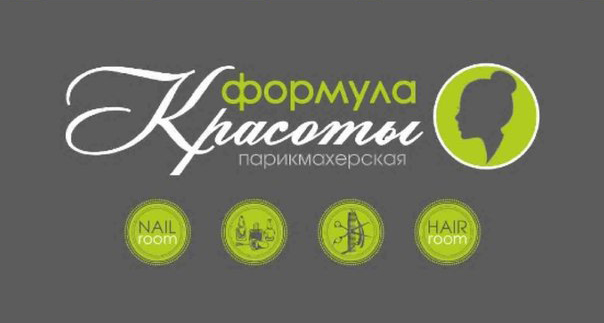
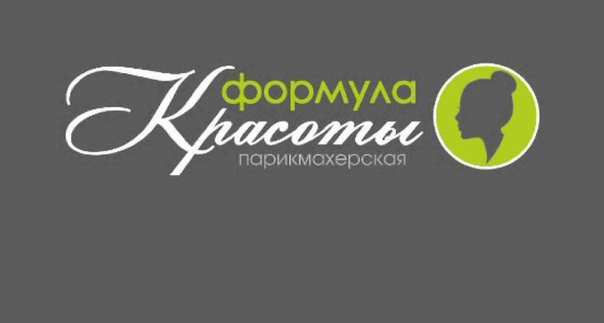
visitCard

diff --git a/dist/css/style.min.css b/dist/css/style.min.css
@@ -4,4 +4,4 @@
  * Copyright 2011-2019 Twitter, Inc.
  * Licensed under MIT (https://github.com/twbs/bootstrap/blob/master/LICENSE)
  * Forked from Normalize.css, licensed MIT (https://github.com/necolas/normalize.css/blob/master/LICENSE.md)
- */*,::after,::before{box-sizing:border-box}html{font-family:sans-serif;line-height:1.15;-webkit-text-size-adjust:100%;-webkit-tap-highlight-color:transparent}article,aside,figcaption,figure,footer,header,hgroup,main,nav,section{display:block}body{margin:0;font-family:-apple-system,BlinkMacSystemFont,"Segoe UI",Roboto,"Helvetica Neue",Arial,"Noto Sans",sans-serif,"Apple Color Emoji","Segoe UI Emoji","Segoe UI Symbol","Noto Color Emoji";font-size:1rem;font-weight:400;line-height:1.5;color:#212529;text-align:left;background-color:#fff}[tabindex="-1"]:focus{outline:0!important}hr{box-sizing:content-box;height:0;overflow:visible}h1,h2,h3,h4,h5,h6{margin-top:0;margin-bottom:.5rem}p{margin-top:0;margin-bottom:1rem}abbr[data-original-title],abbr[title]{text-decoration:underline;-webkit-text-decoration:underline dotted;text-decoration:underline dotted;cursor:help;border-bottom:0;-webkit-text-decoration-skip-ink:none;text-decoration-skip-ink:none}address{margin-bottom:1rem;font-style:normal;line-height:inherit}dl,ol,ul{margin-top:0;margin-bottom:1rem}ol ol,ol ul,ul ol,ul ul{margin-bottom:0}dt{font-weight:700}dd{margin-bottom:.5rem;margin-left:0}blockquote{margin:0 0 1rem}b,strong{font-weight:bolder}small{font-size:80%}sub,sup{position:relative;font-size:75%;line-height:0;vertical-align:baseline}sub{bottom:-.25em}sup{top:-.5em}a{color:#007bff;text-decoration:none;background-color:transparent}a:hover{color:#0056b3;text-decoration:underline}a:not([href]):not([tabindex]){color:inherit;text-decoration:none}a:not([href]):not([tabindex]):focus,a:not([href]):not([tabindex]):hover{color:inherit;text-decoration:none}a:not([href]):not([tabindex]):focus{outline:0}code,kbd,pre,samp{font-family:SFMono-Regular,Menlo,Monaco,Consolas,"Liberation Mono","Courier New",monospace;font-size:1em}pre{margin-top:0;margin-bottom:1rem;overflow:auto}figure{margin:0 0 1rem}img{vertical-align:middle;border-style:none}svg{overflow:hidden;vertical-align:middle}table{border-collapse:collapse}caption{padding-top:.75rem;padding-bottom:.75rem;color:#6c757d;text-align:left;caption-side:bottom}th{text-align:inherit}label{display:inline-block;margin-bottom:.5rem}button{border-radius:0}button:focus{outline:1px dotted;outline:5px auto -webkit-focus-ring-color}button,input,optgroup,select,textarea{margin:0;font-family:inherit;font-size:inherit;line-height:inherit}button,input{overflow:visible}button,select{text-transform:none}select{word-wrap:normal}[type=button],[type=reset],[type=submit],button{-webkit-appearance:button}[type=button]:not(:disabled),[type=reset]:not(:disabled),[type=submit]:not(:disabled),button:not(:disabled){cursor:pointer}[type=button]::-moz-focus-inner,[type=reset]::-moz-focus-inner,[type=submit]::-moz-focus-inner,button::-moz-focus-inner{padding:0;border-style:none}input[type=checkbox],input[type=radio]{box-sizing:border-box;padding:0}input[type=date],input[type=datetime-local],input[type=month],input[type=time]{-webkit-appearance:listbox}textarea{overflow:auto;resize:vertical}fieldset{min-width:0;padding:0;margin:0;border:0}legend{display:block;width:100%;max-width:100%;padding:0;margin-bottom:.5rem;font-size:1.5rem;line-height:inherit;color:inherit;white-space:normal}progress{vertical-align:baseline}[type=number]::-webkit-inner-spin-button,[type=number]::-webkit-outer-spin-button{height:auto}[type=search]{outline-offset:-2px;-webkit-appearance:none}[type=search]::-webkit-search-decoration{-webkit-appearance:none}::-webkit-file-upload-button{font:inherit;-webkit-appearance:button}output{display:inline-block}summary{display:list-item;cursor:pointer}template{display:none}[hidden]{display:none!important}@font-face{font-family:'SF UI Display';src:url(../fonts/SFUIDisplay-Thin.eot);src:local("SF UI Display Thin"),local("SFUIDisplay-Thin"),url(../fonts/SFUIDisplay-Thin.eot?#iefix) format("embedded-opentype"),url(../fonts/SFUIDisplay-Thin.woff) format("woff"),url(../fonts/SFUIDisplay-Thin.ttf) format("truetype");font-weight:100;font-style:normal}@font-face{font-family:'SF UI Display';src:url(../fonts/SFUIDisplay-Light.eot);src:local("SF UI Display Light"),local("SFUIDisplay-Light"),url(../fonts/SFUIDisplay-Light.eot?#iefix) format("embedded-opentype"),url(../fonts/SFUIDisplay-Light.woff) format("woff"),url(../fonts/SFUIDisplay-Light.ttf) format("truetype");font-weight:300;font-style:normal}@font-face{font-family:'SF UI Display';src:url(../fonts/SFUIDisplay-Regular.eot);src:local("SF UI Display Regular"),local("SFUIDisplay-Regular"),url(../fonts/SFUIDisplay-Regular.eot?#iefix) format("embedded-opentype"),url(../fonts/SFUIDisplay-Regular.woff) format("woff"),url(../fonts/SFUIDisplay-Regular.ttf) format("truetype");font-weight:400;font-style:normal}@font-face{font-family:'SF UI Display';src:url(../fonts/SFUIDisplay-Semibold.eot);src:local("SF UI Display Semibold"),local("SFUIDisplay-Semibold"),url(../fonts/SFUIDisplay-Semibold.eot?#iefix) format("embedded-opentype"),url(../fonts/SFUIDisplay-Semibold.woff) format("woff"),url(../fonts/SFUIDisplay-Semibold.ttf) format("truetype");font-weight:600;font-style:normal}@font-face{font-family:'SF UI Display';src:url(../fonts/SFUIDisplay-Heavy.eot);src:local("SF UI Display Heavy"),local("SFUIDisplay-Heavy"),url(../fonts/SFUIDisplay-Heavy.eot?#iefix) format("embedded-opentype"),url(../fonts/SFUIDisplay-Heavy.woff) format("woff"),url(../fonts/SFUIDisplay-Heavy.ttf) format("truetype");font-weight:900;font-style:normal}*{font-family:'SF UI Display',sans-serif;margin:0;padding:0}.container{width:1440px;margin:0 auto}.main{position:relative}.main .tns-item img{display:block;margin:0 auto}.main .tns-nav{display:flex;justify-content:center;align-items:center;position:absolute;right:50%;transform:translateX(50%);bottom:10px}.main .tns-nav button{width:25px;height:3px;margin-right:5px;border:none;background-color:grey}.main .tns-nav .tns-nav-active{background-color:#000}.first{background:url(../img/main-dark.jpg) no-repeat 100%/cover;min-height:100vh}.navigation{padding-top:15px;position:fixed;width:100%;height:60px;background-color:rgba(0,0,0,.55);z-index:10;color:#fff}.navigation .nav-items{display:flex;justify-content:space-around;align-items:center}
+ */*,::after,::before{box-sizing:border-box}html{font-family:sans-serif;line-height:1.15;-webkit-text-size-adjust:100%;-webkit-tap-highlight-color:transparent}article,aside,figcaption,figure,footer,header,hgroup,main,nav,section{display:block}body{margin:0;font-family:-apple-system,BlinkMacSystemFont,"Segoe UI",Roboto,"Helvetica Neue",Arial,"Noto Sans",sans-serif,"Apple Color Emoji","Segoe UI Emoji","Segoe UI Symbol","Noto Color Emoji";font-size:1rem;font-weight:400;line-height:1.5;color:#212529;text-align:left;background-color:#fff}[tabindex="-1"]:focus{outline:0!important}hr{box-sizing:content-box;height:0;overflow:visible}h1,h2,h3,h4,h5,h6{margin-top:0;margin-bottom:.5rem}p{margin-top:0;margin-bottom:1rem}abbr[data-original-title],abbr[title]{text-decoration:underline;-webkit-text-decoration:underline dotted;text-decoration:underline dotted;cursor:help;border-bottom:0;-webkit-text-decoration-skip-ink:none;text-decoration-skip-ink:none}address{margin-bottom:1rem;font-style:normal;line-height:inherit}dl,ol,ul{margin-top:0;margin-bottom:1rem}ol ol,ol ul,ul ol,ul ul{margin-bottom:0}dt{font-weight:700}dd{margin-bottom:.5rem;margin-left:0}blockquote{margin:0 0 1rem}b,strong{font-weight:bolder}small{font-size:80%}sub,sup{position:relative;font-size:75%;line-height:0;vertical-align:baseline}sub{bottom:-.25em}sup{top:-.5em}a{color:#007bff;text-decoration:none;background-color:transparent}a:hover{color:#0056b3;text-decoration:underline}a:not([href]):not([tabindex]){color:inherit;text-decoration:none}a:not([href]):not([tabindex]):focus,a:not([href]):not([tabindex]):hover{color:inherit;text-decoration:none}a:not([href]):not([tabindex]):focus{outline:0}code,kbd,pre,samp{font-family:SFMono-Regular,Menlo,Monaco,Consolas,"Liberation Mono","Courier New",monospace;font-size:1em}pre{margin-top:0;margin-bottom:1rem;overflow:auto}figure{margin:0 0 1rem}img{vertical-align:middle;border-style:none}svg{overflow:hidden;vertical-align:middle}table{border-collapse:collapse}caption{padding-top:.75rem;padding-bottom:.75rem;color:#6c757d;text-align:left;caption-side:bottom}th{text-align:inherit}label{display:inline-block;margin-bottom:.5rem}button{border-radius:0}button:focus{outline:1px dotted;outline:5px auto -webkit-focus-ring-color}button,input,optgroup,select,textarea{margin:0;font-family:inherit;font-size:inherit;line-height:inherit}button,input{overflow:visible}button,select{text-transform:none}select{word-wrap:normal}[type=button],[type=reset],[type=submit],button{-webkit-appearance:button}[type=button]:not(:disabled),[type=reset]:not(:disabled),[type=submit]:not(:disabled),button:not(:disabled){cursor:pointer}[type=button]::-moz-focus-inner,[type=reset]::-moz-focus-inner,[type=submit]::-moz-focus-inner,button::-moz-focus-inner{padding:0;border-style:none}input[type=checkbox],input[type=radio]{box-sizing:border-box;padding:0}input[type=date],input[type=datetime-local],input[type=month],input[type=time]{-webkit-appearance:listbox}textarea{overflow:auto;resize:vertical}fieldset{min-width:0;padding:0;margin:0;border:0}legend{display:block;width:100%;max-width:100%;padding:0;margin-bottom:.5rem;font-size:1.5rem;line-height:inherit;color:inherit;white-space:normal}progress{vertical-align:baseline}[type=number]::-webkit-inner-spin-button,[type=number]::-webkit-outer-spin-button{height:auto}[type=search]{outline-offset:-2px;-webkit-appearance:none}[type=search]::-webkit-search-decoration{-webkit-appearance:none}::-webkit-file-upload-button{font:inherit;-webkit-appearance:button}output{display:inline-block}summary{display:list-item;cursor:pointer}template{display:none}[hidden]{display:none!important}@font-face{font-family:'SF UI Display';src:url(../fonts/SFUIDisplay-Thin.eot);src:local("SF UI Display Thin"),local("SFUIDisplay-Thin"),url(../fonts/SFUIDisplay-Thin.eot?#iefix) format("embedded-opentype"),url(../fonts/SFUIDisplay-Thin.woff) format("woff"),url(../fonts/SFUIDisplay-Thin.ttf) format("truetype");font-weight:100;font-style:normal}@font-face{font-family:'SF UI Display';src:url(../fonts/SFUIDisplay-Light.eot);src:local("SF UI Display Light"),local("SFUIDisplay-Light"),url(../fonts/SFUIDisplay-Light.eot?#iefix) format("embedded-opentype"),url(../fonts/SFUIDisplay-Light.woff) format("woff"),url(../fonts/SFUIDisplay-Light.ttf) format("truetype");font-weight:300;font-style:normal}@font-face{font-family:'SF UI Display';src:url(../fonts/SFUIDisplay-Regular.eot);src:local("SF UI Display Regular"),local("SFUIDisplay-Regular"),url(../fonts/SFUIDisplay-Regular.eot?#iefix) format("embedded-opentype"),url(../fonts/SFUIDisplay-Regular.woff) format("woff"),url(../fonts/SFUIDisplay-Regular.ttf) format("truetype");font-weight:400;font-style:normal}@font-face{font-family:'SF UI Display';src:url(../fonts/SFUIDisplay-Semibold.eot);src:local("SF UI Display Semibold"),local("SFUIDisplay-Semibold"),url(../fonts/SFUIDisplay-Semibold.eot?#iefix) format("embedded-opentype"),url(../fonts/SFUIDisplay-Semibold.woff) format("woff"),url(../fonts/SFUIDisplay-Semibold.ttf) format("truetype");font-weight:600;font-style:normal}@font-face{font-family:'SF UI Display';src:url(../fonts/SFUIDisplay-Heavy.eot);src:local("SF UI Display Heavy"),local("SFUIDisplay-Heavy"),url(../fonts/SFUIDisplay-Heavy.eot?#iefix) format("embedded-opentype"),url(../fonts/SFUIDisplay-Heavy.woff) format("woff"),url(../fonts/SFUIDisplay-Heavy.ttf) format("truetype");font-weight:900;font-style:normal}*{font-family:'SF UI Display',sans-serif;margin:0;padding:0}.container{width:1440px;margin:0 auto}@-webkit-keyframes visitCard{from{transform:translateX(-100%)}to{transform:translateX(0)}}@keyframes visitCard{from{transform:translateX(-100%)}to{transform:translateX(0)}}.nav__wrapper{position:fixed;width:100%;height:70px;background-color:rgba(0,0,0,.55);z-index:10;color:#fff}.nav .nav__items{height:70px;font-weight:300;display:flex;justify-content:space-around;align-items:center}.nav .nav__items img{height:50px}.nav .nav__items .nav__item a{color:#fff}.nav .nav__items .nav__item a:hover{text-decoration:none}.promo{position:relative;background:url(../img/main-dark.jpg) no-repeat 100%/cover;min-height:100vh}.promo__card{position:absolute;width:400px;top:230px;transform:translateX(-100%);-webkit-animation-name:visitCard;animation-name:visitCard;-webkit-animation-duration:1s;animation-duration:1s;-webkit-animation-timing-function:ease;animation-timing-function:ease;-webkit-animation-delay:2s;animation-delay:2s;-webkit-animation-fill-mode:forwards;animation-fill-mode:forwards}.promo__card img{width:100%}.main{position:relative}.main .tns-item img{display:block;margin:0 auto}.main .tns-nav{display:flex;justify-content:center;align-items:center;position:absolute;right:50%;transform:translateX(50%);bottom:10px}.main .tns-nav button{width:25px;height:3px;margin-right:5px;border:none;background-color:grey}.main .tns-nav .tns-nav-active{background-color:#000}

diff --git a/dist/index.html b/dist/index.html
@@ -1,3 +1,3 @@
-<!DOCTYPE html><html lang="ru"><head><meta charset="UTF-8"><meta name="viewport" content="width=device-width,initial-scale=1"><meta http-equiv="X-UA-Compatible" content="ie=edge"><title>Формула красоты</title><meta name="title" content="Формула красоты"><meta name="description" content="Салон Формула Красоты приглашает всех за красотой!"><!-- Open Graph / Facebook --><meta property="og:type" content="website"><meta property="og:url" content="https://metatags.io/"><meta property="og:title" content="Формула красоты"><meta property="og:description" content="Салон Формула Красоты приглашает всех за красотой!"><meta property="og:image" content="https://metatags.io/assets/meta-tags-16a33a6a8531e519cc0936fbba0ad904e52d35f34a46c97a2c9f6f7dd7d336f2.png"><!-- Twitter --><meta property="twitter:card" content="summary_large_image"><meta property="twitter:url" content="https://metatags.io/"><meta property="twitter:title" content="Формула красоты"><meta property="twitter:description" content="Салон Формула Красоты приглашает всех за красотой!"><meta property="twitter:image" content="https://metatags.io/assets/meta-tags-16a33a6a8531e519cc0936fbba0ad904e52d35f34a46c97a2c9f6f7dd7d336f2.png"><!-- Favicon  --><link rel="apple-touch-icon" sizes="76x76" href="icons/favicon/apple-touch-icon.png"><link rel="icon" type="image/png" sizes="32x32" href="icons/favicon/favicon-32x32.png"><link rel="icon" type="image/png" sizes="16x16" href="icons/favicon/favicon-16x16.png"><link rel="manifest" href="icons/favicon/site.webmanifest"><link rel="mask-icon" href="icons/favicon/safari-pinned-tab.svg" color="#b0ca29"><meta name="apple-mobile-web-app-title" content="formula-krasoty"><meta name="application-name" content="formula-krasoty"><meta name="msapplication-TileColor" content="#da532c"><meta name="theme-color" content="#ffffff"><link rel="stylesheet" href="css/style.min.css"></head><body><div class="navigation"><div class="container"><div class="nav-items"><div class="nav-item">О нас</div><div class="nav-item">Услуги</div><div class="nav-item">Цены</div><div class="nav-item">Наши работы</div><div class="nav-item">Наши мастера</div><div class="nav-item">Контакты</div></div></div></div><section class="firsti"><div class="container"><div class="first"></div></div></section><section class="main"><div class="container"><div class="courusel__inner"><div><img class="tns-fadeIn" src="img/main-dark.jpg" alt="room"></div><div class="tns-fadeIn"><img src="img/main2-dark.jpg" alt="room"></div><div class="tns-fadeIn"><img src="img/main3-dark.jpg" alt="room"></div></div></div></section><script src="https://cdnjs.cloudflare.com/ajax/libs/tiny-slider/2.9.2/min/tiny-slider.js"></script><link rel="stylesheet" href="https://cdnjs.cloudflare.com/ajax/libs/tiny-slider/2.9.4/tiny-slider.css"><!-- <script src="https://cdnjs.cloudflare.com/ajax/libs/tiny-slider/2.9.4/min/tiny-slider.js"
+<!DOCTYPE html><html lang="ru"><head><meta charset="UTF-8"><meta name="viewport" content="width=device-width,initial-scale=1"><meta http-equiv="X-UA-Compatible" content="ie=edge"><title>Формула красоты</title><meta name="title" content="Формула красоты"><meta name="description" content="Салон Формула Красоты приглашает всех за красотой!"><!-- Open Graph / Facebook --><meta property="og:type" content="website"><meta property="og:url" content="https://metatags.io/"><meta property="og:title" content="Формула красоты"><meta property="og:description" content="Салон Формула Красоты приглашает всех за красотой!"><meta property="og:image" content="https://metatags.io/assets/meta-tags-16a33a6a8531e519cc0936fbba0ad904e52d35f34a46c97a2c9f6f7dd7d336f2.png"><!-- Twitter --><meta property="twitter:card" content="summary_large_image"><meta property="twitter:url" content="https://metatags.io/"><meta property="twitter:title" content="Формула красоты"><meta property="twitter:description" content="Салон Формула Красоты приглашает всех за красотой!"><meta property="twitter:image" content="https://metatags.io/assets/meta-tags-16a33a6a8531e519cc0936fbba0ad904e52d35f34a46c97a2c9f6f7dd7d336f2.png"><!-- Favicon  --><link rel="apple-touch-icon" sizes="76x76" href="icons/favicon/apple-touch-icon.png"><link rel="icon" type="image/png" sizes="32x32" href="icons/favicon/favicon-32x32.png"><link rel="icon" type="image/png" sizes="16x16" href="icons/favicon/favicon-16x16.png"><link rel="manifest" href="icons/favicon/site.webmanifest"><link rel="mask-icon" href="icons/favicon/safari-pinned-tab.svg" color="#b0ca29"><meta name="apple-mobile-web-app-title" content="formula-krasoty"><meta name="application-name" content="formula-krasoty"><meta name="msapplication-TileColor" content="#da532c"><meta name="theme-color" content="#ffffff"><link rel="stylesheet" href="css/style.min.css"></head><body><nav class="nav"><div class="nav__wrapper"><div class="nav__items"><div class="nav__item"><img src="img/Logo2.png" alt="logo"></div><div class="nav__item"><a href="#">О нас</a></div><div class="nav__item"><a href="#">Услуги</a></div><div class="nav__item"><a href="#">Цены</a></div><div class="nav__item"><a href="#">Наши работы</a></div><div class="nav__item"><a href="#">Наши мастера</a></div><div class="nav__item"><a href="#">Контакты</a></div></div></div></nav><section class="promo"><div class="promo__card"><img src="img/card-new.jpg" alt="visitCard"><div class="promo__card-circle"></div><div class="promo__card-circle"></div><div class="promo__card-circle"></div><div class="promo__card-circle"></div></div></section><section class="main"><div class="container"><div class="courusel__inner"><div><img class="tns-fadeIn" src="img/main-dark.jpg" alt="room"></div><div class="tns-fadeIn"><img src="img/main2-dark.jpg" alt="room"></div><div class="tns-fadeIn"><img src="img/main3-dark.jpg" alt="room"></div></div></div></section><script src="https://cdnjs.cloudflare.com/ajax/libs/tiny-slider/2.9.2/min/tiny-slider.js"></script><link rel="stylesheet" href="https://cdnjs.cloudflare.com/ajax/libs/tiny-slider/2.9.4/tiny-slider.css"><!-- <script src="https://cdnjs.cloudflare.com/ajax/libs/tiny-slider/2.9.4/min/tiny-slider.js"
         integrity="sha512-j+F4W//4Pu39at5I8HC8q2l1BNz4OF3ju39HyWeqKQagW6ww3ZF9gFcu8rzUbyTDY7gEo/vqqzGte0UPpo65QQ=="
         crossorigin="anonymous" referrerpolicy="no-referrer"></script> --><script src="js/script.js"></script></body></html>

diff --git a/src/index.html b/src/index.html
@@ -1,5 +1,6 @@
 <!DOCTYPE html>
 <html lang="ru">
+
 <head>
     <meta charset="UTF-8">
     <meta name="viewport" content="width=device-width, initial-scale=1.0">
@@ -13,14 +14,16 @@
     <meta property="og:url" content="https://metatags.io/">
     <meta property="og:title" content="Формула красоты">
     <meta property="og:description" content="Салон Формула Красоты приглашает всех за красотой!">
-    <meta property="og:image" content="https://metatags.io/assets/meta-tags-16a33a6a8531e519cc0936fbba0ad904e52d35f34a46c97a2c9f6f7dd7d336f2.png">
+    <meta property="og:image"
+        content="https://metatags.io/assets/meta-tags-16a33a6a8531e519cc0936fbba0ad904e52d35f34a46c97a2c9f6f7dd7d336f2.png">
 
     <!-- Twitter -->
     <meta property="twitter:card" content="summary_large_image">
     <meta property="twitter:url" content="https://metatags.io/">
     <meta property="twitter:title" content="Формула красоты">
     <meta property="twitter:description" content="Салон Формула Красоты приглашает всех за красотой!">
-    <meta property="twitter:image" content="https://metatags.io/assets/meta-tags-16a33a6a8531e519cc0936fbba0ad904e52d35f34a46c97a2c9f6f7dd7d336f2.png">
+    <meta property="twitter:image"
+        content="https://metatags.io/assets/meta-tags-16a33a6a8531e519cc0936fbba0ad904e52d35f34a46c97a2c9f6f7dd7d336f2.png">
 
     <!-- Favicon  -->
     <link rel="apple-touch-icon" sizes="76x76" href="icons/favicon/apple-touch-icon.png">
@@ -35,24 +38,32 @@
 
     <link rel="stylesheet" href="css/style.min.css">
 </head>
+
 <body>
-    <div class="navigation">
-        <div class="container">
-            <div class="nav-items">
-                <div class="nav-item">О нас</div>
-                <div class="nav-item">Услуги</div>
-                <div class="nav-item">Цены</div>
-                <div class="nav-item">Наши работы</div>
-                <div class="nav-item">Наши мастера</div>
-                <div class="nav-item">Контакты</div>
+    <nav class="nav">
+        <div class="nav__wrapper">
+            <div class="nav__items">
+                <div class="nav__item"><img src="img/Logo2.png" alt="logo"></div>
+                <div class="nav__item"><a href="#">О нас</a></div>
+                <div class="nav__item"><a href="#">Услуги</a></div>
+                <div class="nav__item"><a href="#">Цены</a></div>
+                <div class="nav__item"><a href="#">Наши работы</a></div>
+                <div class="nav__item"><a href="#">Наши мастера</a></div>
+                <div class="nav__item"><a href="#">Контакты</a></div>
             </div>
         </div>
-    </div>
 
-    <section class="firsti">
-        <div class="container">
-            <div class="first"></div>
+    </nav>
+
+    <section class="promo">
+        <div class="promo__card">
+            <img src="img/card-new.jpg" alt="visitCard">
+            <div class="promo__card-circle"></div>
+            <div class="promo__card-circle"></div>
+            <div class="promo__card-circle"></div>
+            <div class="promo__card-circle"></div>
         </div>
+
     </section>
     <section class="main">
         <div class="container">
@@ -71,4 +82,5 @@
         crossorigin="anonymous" referrerpolicy="no-referrer"></script> -->
     <script src="js/script.js"></script>
 </body>
+
 </html>

diff --git a/src/sass/blocks/_nav.scss b/src/sass/blocks/_nav.scss
@@ -1,15 +1,35 @@
-.navigation {
-   padding-top: 15px;
-    position: fixed;
-    width: 100%;
-    height: 60px;
-    background-color: rgba(0, 0, 0, .55);
-    z-index: 10;
-    color: white;
-    .nav-items {
+.nav {
+    &__wrapper {
+        // padding-top: 15px;
+        position: fixed;
+        width: 100%;
+        height: 70px;
+        background-color: rgba(0, 0, 0, .55);
+        z-index: 10;
+        color: white;
+    }
+
+    .nav__items {
+        height: 70px;
+        font-weight: 300;
         display: flex;
         justify-content: space-around;
         align-items: center;
-    
+
+        img {
+            height: 50px;
+        }
+
+        .nav__item {
+            a {
+                color: rgb(255, 255, 255);
+
+                &:hover {
+                    text-decoration: none;
+                }
+            }
+
+
+        }
     }
 }

diff --git a/src/sass/blocks/_promo.scss b/src/sass/blocks/_promo.scss
@@ -1,0 +1,24 @@
+.promo {
+    position: relative;
+    background: url("../img/main-dark.jpg") no-repeat 100%/cover;
+    min-height: 100vh;
+
+    &__card {
+        position: absolute;
+        width: 400px;
+        top: 230px;
+        transform: translateX(-100%);
+        // left: -100%;
+
+        img {
+            width: 100%;
+        }
+
+        animation-name: visitCard;
+        animation-duration: 1s;
+        animation-timing-function: ease;
+        animation-delay: 2s;
+        animation-fill-mode: forwards;
+        // transform: translateX(0%);
+    }
+}

diff --git a/src/sass/style.scss b/src/sass/style.scss
@@ -68,7 +68,9 @@
     width: 1440px;
     margin: 0 auto;
 }
+@import "base/animations";
 
-@import "blocks/slider";
-@import "blocks/first";
+
 @import "blocks/nav";
+@import "blocks/promo";
+@import "blocks/slider";

diff --git a/src/sass/base/_animations.scss b/src/sass/base/_animations.scss
@@ -1,0 +1,9 @@
+@keyframes visitCard {
+    from {
+        transform: translateX(-100%);
+    }
+
+    to {
+        transform: translateX(0%);
+    }
+}

diff --git a/src/sass/base/_variables.scss b/src/sass/base/_variables.scss
@@ -1,0 +1,2 @@
+$main_color: #b0cc20;
+$second_color: #666666;
